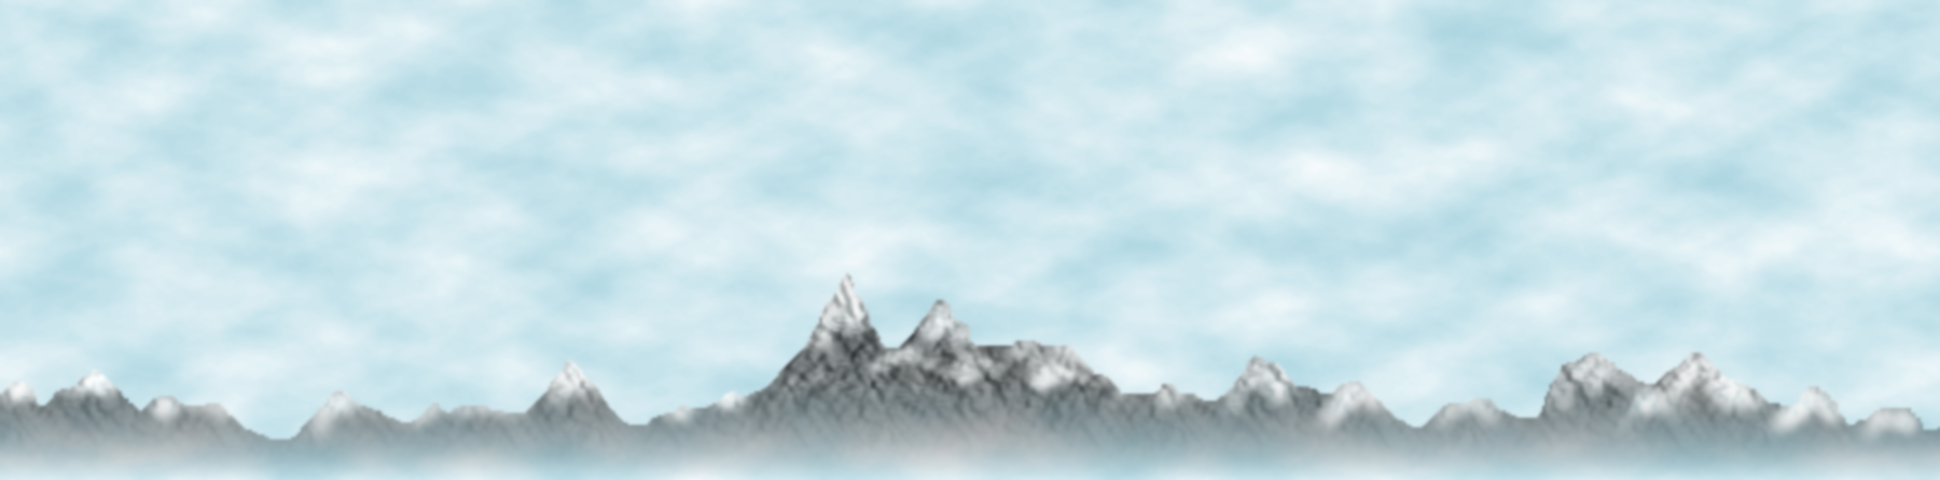
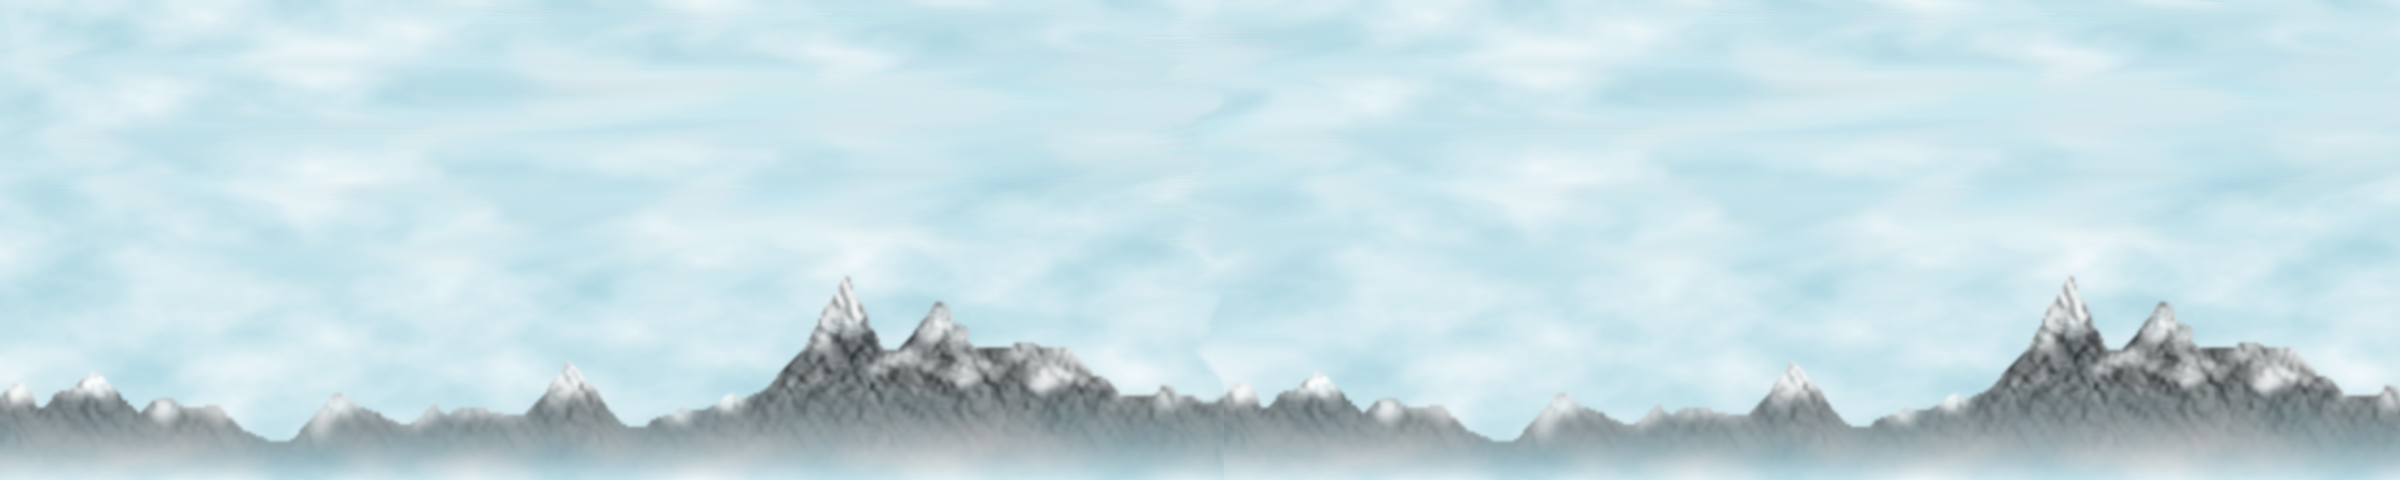
change in the mountain background, added the assets for the eggs

diff --git a/Scripts/objects/sky.ts b/Scripts/objects/sky.ts
@@ -18,7 +18,7 @@ module objects {
             
             //console.log(this.x);
             if(this.x >= value) {
-                this._reset(-1200);
+                this._reset(-1219);
             }
         }
         
